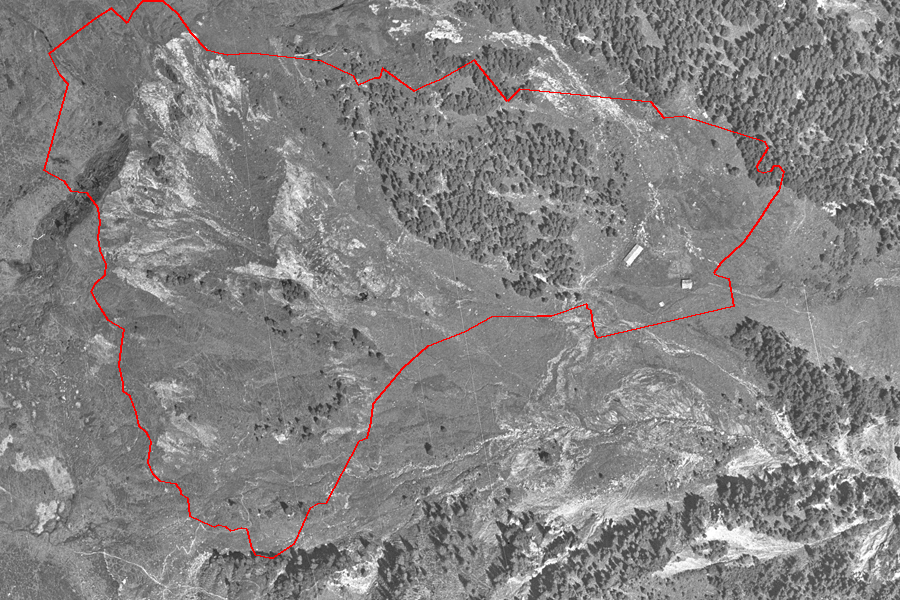
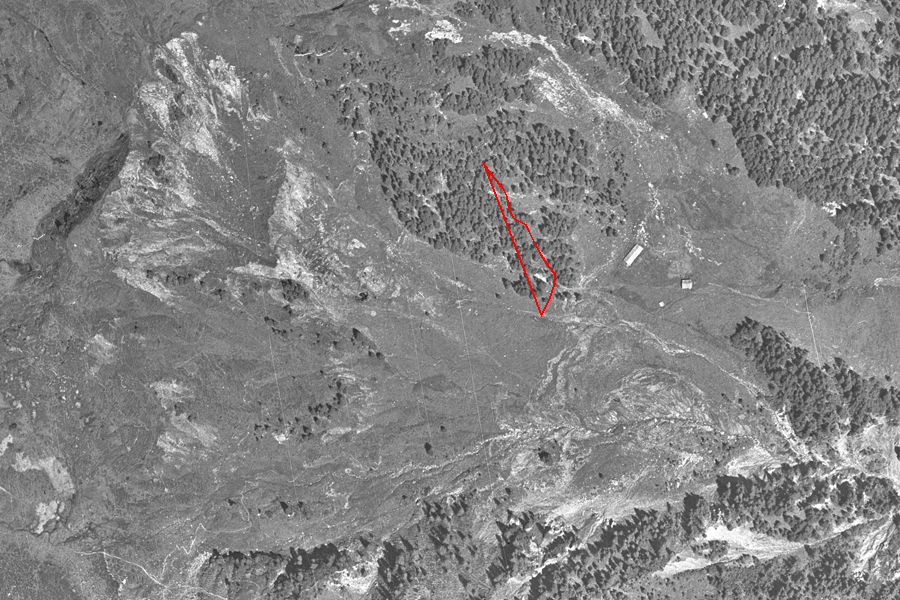
...

diff --git a/Informatik I/UE_Uebungsprogramm_WS2022/main.py b/Informatik I/UE_Uebungsprogramm_WS2022/main.py
@@ -9,16 +9,19 @@ OUT_DIR = pathlib.Path(__file__).parent
 img = Image.open(f"{DATA_DIR}/O1953_9960_A3_1m.tif").convert("RGB")
 draw = ImageDraw.Draw(img)
 
-data = np.loadtxt(f"{DATA_DIR}/diff_analyse_grd.bln", delimiter=",")
-# first line contains garbage values
-data = data[1:]
+# data = np.loadtxt(f"{DATA_DIR}/Anrisskante.bln", delimiter=",", skiprows=1)
+data = np.loadtxt(f"{DATA_DIR}/Abbruchkante.bln", delimiter=",", skiprows=1)
+# data = np.loadtxt(f"{DATA_DIR}/diff_analyse_grd.bln", delimiter=",", skiprows=1)
 
 # rescale to image coordinates
-xs = np.interp(data[:, 0], [-1100, -200], [0, img.width])
-ys = np.interp(data[:, 1], [1500, 2100], [0, img.height])
 
 # draw polygon and save
-points = list(zip(xs, ys))
+points = list(
+    zip(
+        np.interp(data[:, 0], [-1100, -200], [0, img.width]),
+        np.interp(data[:, 1], [1500, 2100], [0, img.height]),
+    )
+)
 draw.polygon(points, outline="red", width=2)
 
 img.save(f"{OUT_DIR}/out.png")

diff --git a/Physik M/10.3 Federschwingung mit Reibung.py b/Physik M/10.3 Federschwingung mit Reibung.py
@@ -9,8 +9,11 @@ vy = -0.04  # m/s
 friction = -0.5  # dvy/dt
 
 dt = 1e-6
-for i in np.arange(0, 3, dt):
+for _ in np.arange(0, 3, dt):
+    f_friction = friction * vy
+    f_spring = -k * y
+    ay = (f_friction + f_spring) / mass
+    vy += ay * dt
     y += vy * dt
-    vy += (friction * vy - k * y) / mass * dt
 
 print(y)
